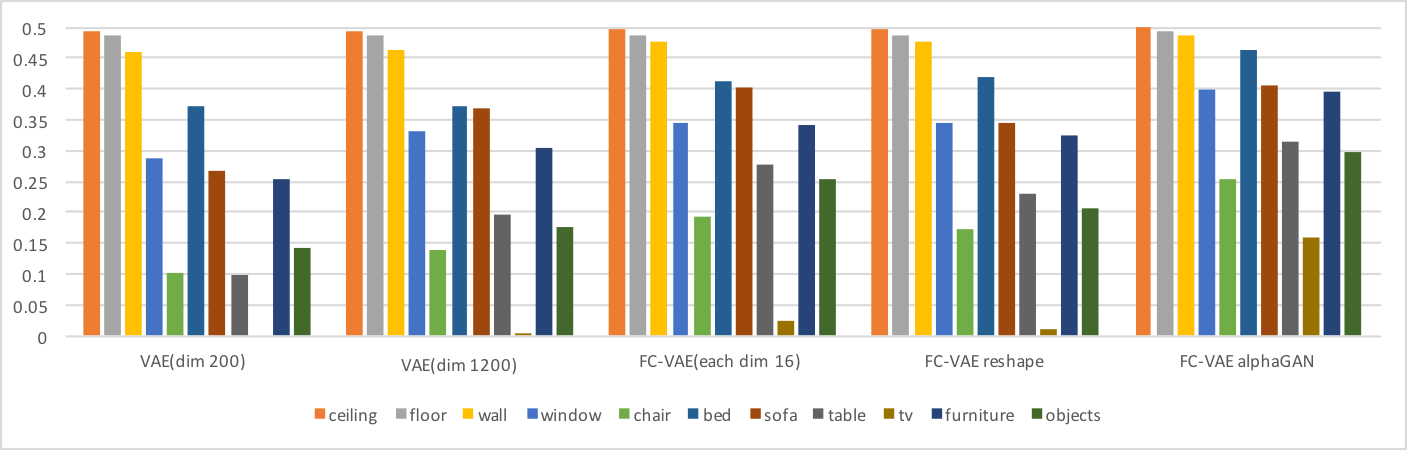
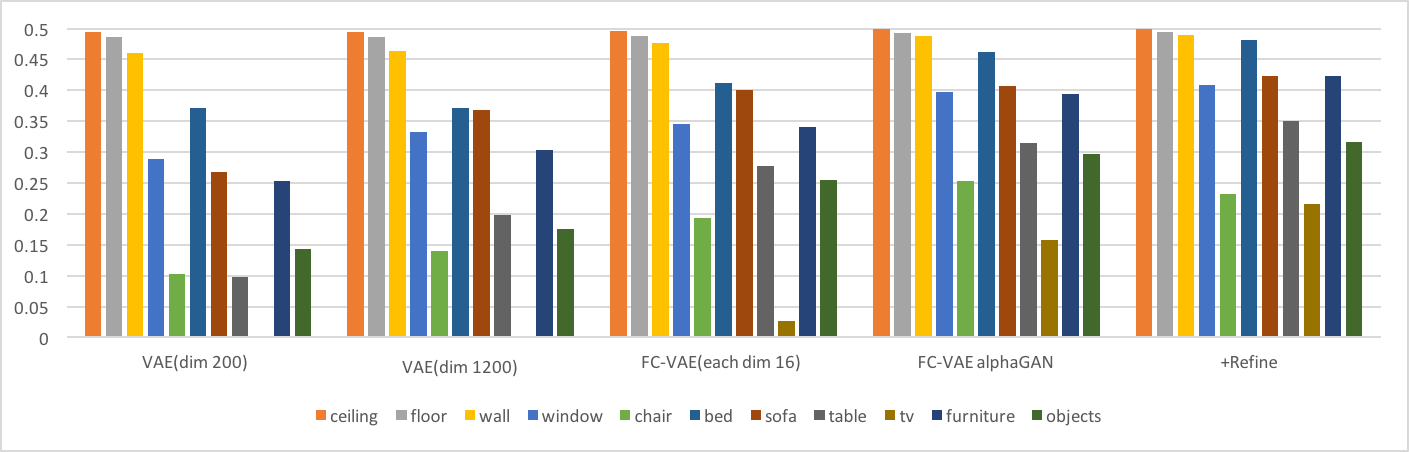
editting

diff --git a/README.md b/README.md
@@ -1,7 +1,7 @@
 # While Editting......
 
-# Fully Convolutional Auto-Encoding Generative Adversarial Networks for 3D Multi Object Scenes
-This repository contains the source code for Fully Convolutional Auto-Encoding Generative Adversarial Networks for 3D Multi Object Scenes which is my work at Stanford AI Lab as a visiting scholar.  
+# Fully Convolutional Refined Auto-Encoding Generative Adversarial Networks for 3D Multi Object Scenes
+This repository contains the source code for Fully Convolutional Refined Auto-Encoding Generative Adversarial Networks for 3D Multi Object Scenes which is my work at Stanford AI Lab as a visiting scholar.  
 Special thanks to Christopher Choi and Prof. Silvio Savarese.
 
 <img src="https://github.com/yunishi3/FC-alphaGAN/blob/master/Images/Interpolation.gif" width="500">
@@ -32,18 +32,17 @@ I modified this dataset as follows.
 As a result, over 185K scenes were gathered which has 12 classes (empty, ceiling, floor, wall, window, chair, bed, sofa, table, tvs, furn, objs).  
 <img src="https://github.com/yunishi3/FC-alphaGAN/blob/master/Images/DatasetImages.png">　　
 
-This dataset is really sparse which means around 92% voxels in this scene are empty class averagely. In addition, this dataset has plenty of varieties such as living room, bathroom, restroom, dining room, garage etc.
+This dataset is extremely sparse which means around 92% voxels in these scenes are empty class averagely. In addition, this dataset has plenty of varieties such as living rooms, bathrooms, restrooms, dining rooms, garages etc.
 
 
 
 ## Models
 ### Network Architecture
-The network architecture of this work is fully convolutional auto- encoding generative adversarial networks. This is inspired by 3DGAN[1] and alphaGAN[4]. And fully convolution and classifying multi objects are novel architectures.  
+The network architecture of this work is fully convolutional refined auto-encoding generative adversarial networks. This is inspired by 3DGAN[1], alphaGAN[4] and SimGAN[5]. And fully convolution and classifying multi objects are novel architectures.  
 <img src="https://github.com/yunishi3/FC-alphaGAN/blob/master/Images/NetworkArchitecture.png">  
 
-This network combined variatinal auto-encoder with generative adversarial networks. Also the KL divergence loss of variational auto- encoder is replaced with adversarial auto-encoder using code-discriminator as alphaGAN architectuires[4]. In this work, the shape of the latet space is 5x3x5x16 and this is calculated by fully convolution layer. Fully convolution allows to extract features more specifically like semantic segmentation tasks. As a result, fully convolution enables reconstruction performance to get better.  
- Adversarial auto-encoding architecture allows to loosen the constraint of distributions and treat this distribution as implicit. As a result, adversarial auto-encoder enables reconstruction and generation performance to get better. 
-In addition, generative adversarial network architecture enables reconstruction and generation performance to get better as well.
+This network combined variatinal auto-encoder with generative adversarial networks. Also the KL divergence loss of variational auto- encoder is replaced with adversarial auto-encoder using code-discriminator as alphaGAN architectuires[4]. In addition, generated scenes are refined by refiner[5]. In this work, the shape of the latent space is 5x3x5x16 and this is calculated by fully convolution layer. Fully convolution allows to extract features more specifically like semantic segmentation tasks. As a result, fully convolution enables reconstruction performance to get better.  
+ Adversarial auto-encoder allows to loosen the constraint of distributions and treat this distribution as implicit. Also generator is trained to fool discriminator by generative adversarial network. As a result, adversarial auto-encoder enables reconstruction and generation performance to get better. In addition, refiner allows to smooth the object shapes and put up shapes to more realistic visually.
 
 <img src="https://github.com/yunishi3/FC-alphaGAN/blob/master/Images/GeneratorNetwork.png">　　
 
@@ -54,7 +53,12 @@ The basic architecture of generator is also similar with 3DGAN[1] as above figur
 #### -Discriminator
 The basic architecture of discriminator is also similar with 3DGAN[1]. The difference is the activation layers which are layer normalization.
 #### -Code Discriminator
-Code discriminator is same as alphaGAN[4] which has 2 hidden layers of 750 dimensions.
+Code discriminator is same as alphaGAN[4] which has 2 hidden layers of 750 dimensions.  
+
+<img src="https://github.com/yunishi3/FC-alphaGAN/blob/master/Images/RefinerNetwork.png">　
+
+#### -Refiner
+The basic architecrure of refiner is similar with SimGAN[5] which is composed with 4 Resnet blocks. The number of channels is 32 in order to decrease the memory charge.  
 
 ### Loss Functions　
 * Reconstruction loss  
@@ -74,7 +78,7 @@ Code discriminator is same as alphaGAN[4] which has 2 hidden layers of 750 dimen
 * Encoder  
 	<img src="https://latex.codecogs.com/gif.latex?\min&space;_{E}\left(&space;L_{cGAN}\left(&space;E\right)&space;&plus;\lambda&space;L_{rec}\right)" />  
 
-* Generator  
+* Generator and Refiner  
 	<img src="https://latex.codecogs.com/gif.latex?\min&space;_{G}\left(&space;\lambda&space;L_{rec}&plus;L_{GAN}\left(&space;G\right)&space;\right)" />  
 
 * Dicriminator  
@@ -88,7 +92,8 @@ Code discriminator is same as alphaGAN[4] which has 2 hidden layers of 750 dimen
 
 ## Experiments
 Adam optimaizer was used for each architectures by learning rate 0.0001.
-This network was trained for 75000 iterations, batch size was 20.
+This network was trained for 75000 iterations except refiner in first, and then refiner was inserted and trained for more 25000 iterations. Batch size was 20 for first training for base networks and 8 for second training for refiner.  
+
 ### Learning curve
 <img src="https://github.com/yunishi3/FC-alphaGAN/blob/master/Images/LearningCurve_Recons.png" width="200"><img src="https://github.com/yunishi3/FC-alphaGAN/blob/master/Images/LearningCurve_Gen.png" width="200"><img src="https://github.com/yunishi3/FC-alphaGAN/blob/master/Images/LearningCurve_Discrim.png" width="200">  
 <img src="https://github.com/yunishi3/FC-alphaGAN/blob/master/Images/LearningCurve_Code_encode.png" width="200"><img src="https://github.com/yunishi3/FC-alphaGAN/blob/master/Images/LearningCurve_Code_discrim.png" width="200">  
@@ -96,22 +101,22 @@ This network was trained for 75000 iterations, batch size was 20.
 
 ### Visualization
 #### -Reconstruction　　
-Here is the results of reconstruction using encoder and generator.  
-<img src="https://github.com/yunishi3/FC-alphaGAN/blob/master/Images/Reconstruction_Result.png" width="500">  
+Here is the results of reconstruction using encoder and generator and refiner.  
+<img src="https://github.com/yunishi3/FC-alphaGAN/blob/master/Images/Reconstruction_Result.png" width="700">  
 
-Almost voxels are reconstructed although small objects are disappeared. Numerical evaluations using IoU and mAP are discribed below.  
+Almost voxels are reconstructed although small objects are disappeared. Also that shapes are refined by refiner. Numerical evaluations using IoU and mAP are discribed below.  
 
 #### -Generation from normal distribution
-Here is the results of generation from normal distribution using generator.  
-<img src="https://github.com/yunishi3/FC-alphaGAN/blob/master/Images/Generation_Result.png" width="500">  
+Here is the results of generation from normal distribution using generator and refiner.  
+<img src="https://github.com/yunishi3/FC-alphaGAN/blob/master/Images/Generation_Result.png" width="700">  
 
-As above figure, alphaGAN architecture worked better than standard fully convolutional VAE architecture. But this was not enough to represent realistic scene objects. This is assumed by that encoder was not generalized to the distribution and the probabilistic space was extremely complicated because of the sparsity of dataset. In order to solve this problem, the probabilistic space should be isolated to each objects and layout.
+As above figure, FCR-alphaGAN architecture worked better than standard fully convolutional VAE architecture. But this was not enough to represent realistic scene objects. This is assumed by that encoder was not generalized to the distribution and the probabilistic space was extremely complicated because of the sparsity of dataset. In order to solve this problem, the probabilistic space should be isolated to each objects and layouts.
 
 
 ### Reconstruction Performance
 Here is the numerical evaluation of reconstruction performance.
 #### -Intersection over Union(IoU)
-IoU is difined as [5]. The bar chart describes IoU performances of each classes. The line chart describes over all IoU performances.  
+IoU is difined as [6]. The bar chart describes IoU performances of each classes. The line chart describes over all IoU performances.  
 <img src="https://github.com/yunishi3/FC-alphaGAN/blob/master/Images/IoU_class.png" width="800">  
 <img src="https://github.com/yunishi3/FC-alphaGAN/blob/master/Images/IoU_all.png" width="300">  
 
@@ -131,21 +136,23 @@ Here is the interpolation results. Gif image of interpolation is posted on the t
 The latent space walkthrough gives smooth transitions between scenes.
 
 ### Interpretation of latent space
-This below charts are the 2D represented mapping by SVD of 200 encoded samples. Gray scale gradations are followed to 1D embedding by SVD of centroid coordinates of scenes. Left is fully convolution, right is standard 1D latent vector of 1200 dimension.  
+This below charts are the 2D represented mapping by SVD of 200 encoded samples. Gray scale gradations are followed to 1D embedding by SVD of centroid coordinates of each scenes. Left is fully convolution, right is standard 1D latent vector of 1200 dimension.  
 <img src="https://github.com/yunishi3/FC-alphaGAN/blob/master/Images/latent_space_visualization.png" width="800">  
 This means fully convolution enables the latent space to be related to spatial contexts compare to standard VAE.  
  
-The below figures describe the effects of individual spatial dimensions composed of 5x3x5 as the latent space. The normal distribution noises were given on the indivisual dimension, and the level of change from original scene was represented by red colors.  
+The below figures describe the effects of individual spatial dimensions composed of 5x3x5 as the latent space. The normal distribution noises were given on the indivisual dimension, and the level of change from original scene is represented by red colors.  
 <img src="https://github.com/yunishi3/FC-alphaGAN/blob/master/Images/noise_visualization.png">  
-This means each spatial dimensions is related to generation of each spaces.
+This means each spatial dimensions is related to generation of each positions by fully convolution.  
 
 
-
+## Suggestions of future work  
+#### Revise the dataset
+In this work, reconstruction task of auto-encoding worked well, but generation task from random distribution to get novel scenes did not work well. If I didn't use auto-encoding, it was extremely hard to get implicit representation in this dataset'.    
 
 ## Installation
  This package requires python2.7. If you don't have fllowing prerequisists, you need to download them using pip, apt-get etc before downloading the repository.  
  Also at least 12GB GPU memory is required.  
-### Prerequisists
+### Prerequisists  
 Following is my environment.
 * Base  
 ```
@@ -179,7 +186,7 @@ Following is my environment.
 ### Evaluation
 If you want to use pretrained model, you can use the checkpoint files as following instructions.  
 * Unzip the Checkpoint.
-It contains checkpoint100000* as confirmation epoch = 100000  
+It contains checkpoint10000* as confirmation epoch = 10000  
 `$ tar xfvz Checkpt.tar.gz`  
 
 Or if you want to evaluate your trained model, you can replace confirmation epoch 100000 with another confirmation epoch which you want to confirm.
@@ -188,25 +195,27 @@ Or if you want to evaluate your trained model, you can replace confirmation epoc
 `$ python main.py --mode evaluate_recons --conf_epoch 100000`  
 
 After execute, you could get following files in the eval directory.  
- - real.npy : Reference models chosen as test data.  
- - reons.npy : Reconstructed models encoded and decoded from reference models.  
- - generate.npy : Generated models from normal distribution.  
- - AP.csv : mean average precision result of this reconstruction models.  
- - IoU.csv : Intersection over Union result of this reconstruction models.  
+ - real.npy : Reference models which are chosen as test data.  
+ - reons.npy : Reconstructed models before refine which are encoded and decoded from reference models.  
+ - recons_refine.npy : Reconstrcuted models after refine.  
+ - generate.npy : Generated models from normal distribution before refine.  
+ - generate_refine.npy : Generated models after refine.
+ - AP(_refine).csv : mean average precision result of this reconstruction models.  
+ - IoU(_refine).csv : Intersection over Union result of this reconstruction models.  
 
 #### -Evaluate the interpolation
 `$ python main.py --mode evaluate_interpolate --conf_epoch 100000`  
 
-After execute, you could get interpolation files like above interpolation results. Files would be so many.
+After execute, you could get interpolation files like above interpolation results. So many and heavy files would be built.
 
 #### -Evaluate the effect of individual spatial dimensions
 `$ python main.py --mode evaluate_noise --conf_epoch 100000`
 
-After execute, you could get noise files like above interpretation of latent space results. Files would be so many.
+After execute, you could get noise files like above interpretation of latent space results. So many and heavy files would be built.
 
 
 ### Visualization
-In order to visualize thier npy files generated by evaluation process, you need to use python vtk. Please see the [6] to know the details of this code. I just modified original code to fit the 3D multi object scenes.  
+In order to visualize thier npy files built by evaluation process, you need to use python vtk. Please see the [7] to know the details of this code. I just modified original code to fit the 3D multi object scenes.  
 * Go to the eval directory  
 `$ cd eval`  
 
@@ -223,8 +232,9 @@ You can change the visualize model using index -i
 [2]Andrew Brock, Theodore Lim, J.M. Ritchie, Nick Weston; Generative and Discriminative Voxel Modeling with Convolutional Neural Networks; arXiv:1608.04236v2  
 [3]Shuran Song, Fisher Yu, Andy Zeng, Angel X. Chang, Manolis Savva, Thomas Funkhouser; Semantic Scene Completion from a Single Depth Image; arXiv:1611.08974v1  
 [4]Mihaela Rosca, Balaji Lakshminarayanan, David Warde-Farley, Shakir Mohamed; Variational Approaches for Auto-Encoding Generative Adversarial Networks; arXiv:1706.04987v1  
-[5]Christopher B. Choy, Danfei Xu, JunYoung Gwak, Kevin Chen, Silvio Savarese; 3D-R2N2: A Unified Approach for Single and
+[5]Ashish Shrivastava, Tomas Pfister, Oncel Tuzel, Josh Susskind, Wenda Wang, Russ Webb; Learning from Simulated and Unsupervised Images through Adversarial Training; arXiv:1612.07828v1  
+[6]Christopher B. Choy, Danfei Xu, JunYoung Gwak, Kevin Chen, Silvio Savarese; 3D-R2N2: A Unified Approach for Single and
 Multi-view 3D Object Reconstruction; arXiv:1604.00449v1  
-[6]https://github.com/zck119/3dgan-release/tree/master/visualization/python  
+[7]https://github.com/zck119/3dgan-release/tree/master/visualization/python  
 
 
